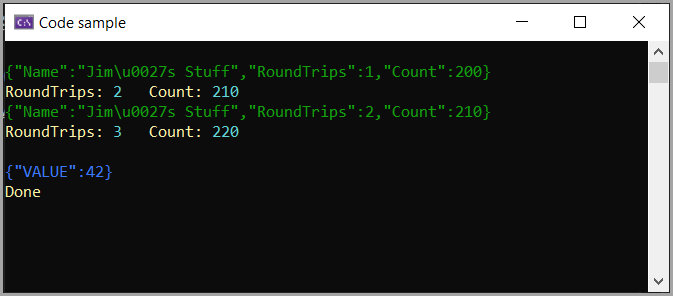
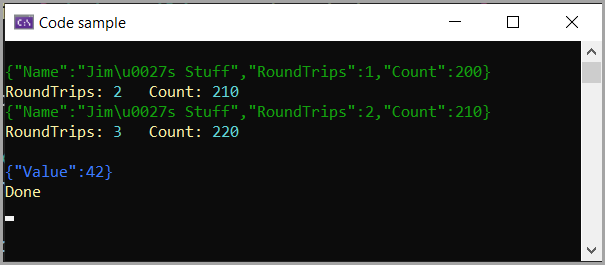
:heavy_check_mark: extension

diff --git a/WithAdditionModifierApp/Classes/Program.cs b/WithAdditionModifierApp/Classes/Program.cs
@@ -1,6 +1,7 @@
 using System.Runtime.CompilerServices;
 using System.Text.Json;
 using System.Text.Json.Serialization.Metadata;
+using WithAdditionModifierApp.Classes;
 
 // ReSharper disable once CheckNamespace
 namespace WithAdditionModifierApp;
@@ -21,14 +22,7 @@ internal partial class Program
             {
                 foreach (JsonPropertyInfo propertyInfo in typeInfo.Properties)
                 {
-                    if (propertyInfo.PropertyType != typeof(int))
-                    {
-                        continue;
-                    }
-
-                    propertyInfo.Name = propertyInfo.Name.ToUpperInvariant();
-
-
+                    propertyInfo.Name = propertyInfo.Name.TitleCased();
                 }
             })
     };

diff --git a/WithAdditionModifierApp/Classes/StringExtensions.cs b/WithAdditionModifierApp/Classes/StringExtensions.cs
@@ -1,0 +1,11 @@
+using System.Globalization;
+
+namespace WithAdditionModifierApp.Classes;
+public static class StringExtensions
+{
+    public static string TitleCased(this string sender)
+    {
+        TextInfo textInfo = new CultureInfo("en-US", false).TextInfo;
+        return textInfo.ToTitleCase(sender);
+    }
+}
